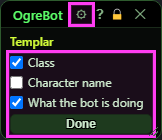
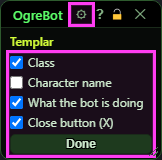
New OgreBot docs: publish the "OgreBot" section (EQ2/bot/)
Generated output from the private docs source (Scripts 8f69deec7+uncommitted); linted for gated names, mkdocs build --strict and link check green.

diff --git a/docs/EQ2/bot/windows/ogremini.md b/docs/EQ2/bot/windows/ogremini.md
@@ -12,12 +12,12 @@
 >
 > - **Pause / Resume** - Pause stops the bot acting on its own (casting, following, camp spot, looting, Auto-Hunt). The button turns yellow and reads Resume.
 > - **Hide Main / Show Main** - hides or shows the main OgreBot window. The bot keeps running.
-> - **The top line** shows your class. The **cog** in the title bar lets you choose what this window shows: your class, your character's name, and a line saying what the bot is doing. Tick what you want and press Done.
+> - **The top line** shows your class. The **cog** in the title bar lets you choose what this window shows: your class, your character's name, a line saying what the bot is doing, and the X. Tick what you want and press Done.
 > - **What the bot is doing** (the bottom line) - Paused, the ability it is casting (Cast: ...) or item it is using (Item: ...), Campspot active (a camp spot outranks following - while one is on, the bot is not following), who it is following, or Idle.
 >
 > **Good to know**
 >
-> - The X on this window stops OgreBot completely, the same as the X on the main window and `ogre end bot`. Unsaved changes are lost.
+> - The X on this window stops OgreBot completely, the same as the X on the main window and `ogre end bot`. Unsaved changes are lost. If you hit it by mistake, untick **Close button (X)** in the cog to hide it.
 > - Unsaved changes show as a yellow star (*) on the main OgreBot window only, not on this one.
 > - Your choices from the cog are kept for next time.
 > - Pause only affects this character. Commands you send still work while paused.
@@ -28,7 +28,7 @@
 
 ## What it is for
 
-The small OgreBot window is a remote for the bot and a quick look at what it is doing. The top line shows your class. Pause stops the bot from acting on its own and Resume starts it again. Hide Main hides the big OgreBot window and Show Main brings it back. The bottom line says what the bot is doing right now. The cog in the title bar picks which of the two lines you see. OgreBot normally loads with the big window hidden, so this small window is what you see.
+The small OgreBot window is a remote for the bot and a quick look at what it is doing. The top line shows your class. Pause stops the bot from acting on its own and Resume starts it again. Hide Main hides the big OgreBot window and Show Main brings it back. The bottom line says what the bot is doing right now. The cog in the title bar picks which of the two lines you see, and can hide the X. OgreBot normally loads with the big window hidden, so this small window is what you see.
 
 ## The top line and the status line
 
@@ -71,7 +71,7 @@ Besides the usual ? (help) and lock, the title bar has the cog, which picks what
 
 | Control | What it does |
 |---|---|
-| **Title bar close (X)** | Shuts OgreBot down completely, the same as the X on the big window and `ogre end bot`. Both windows close, movement and HUDs stop, the profile is unloaded, and unsaved changes are thrown away.<br>*To just get the big window out of the way, use Hide Main.* |
+| **Title bar close (X)** | Shuts OgreBot down completely, the same as the X on the big window and `ogre end bot`. Both windows close, movement and HUDs stop, the profile is unloaded, and unsaved changes are thrown away.<br>*To just get the big window out of the way, use Hide Main. If you keep hitting the X by mistake, untick Close button (X) in the cog to hide it.* |
 
 
 
@@ -87,6 +87,7 @@ The cog in the title bar opens a short list in place of the buttons. Tick what y
 | **Class** | Shows your class on the top line. | on |
 | **Character name** | Shows your character's name on the top line, in front of the class. | off |
 | **What the bot is doing** | Shows the status line under the buttons. | on |
+| **Close button (X)** | Shows the X in this window's title bar. Untick it so you cannot shut OgreBot down by mistake when you meant Hide Main. With the X hidden, the X on the big OgreBot window and `ogre end bot` still close OgreBot. | on |
 | **Done** | Saves your ticks, closes the list and brings the buttons back. The choice is kept for next time. |  |
 
 
@@ -100,7 +101,7 @@ The cog in the title bar opens a short list in place of the buttons. Tick what y
 
 ## Good to know
 
-- The X on this small window stops OgreBot. It is not a minimize.
+- The X on this small window stops OgreBot. It is not a minimize. The cog can hide it.
 - Pause only stops what the bot decides by itself. Commands from you or your group still run.
 - The cog's choice is saved for the whole computer, not for each character.
 
